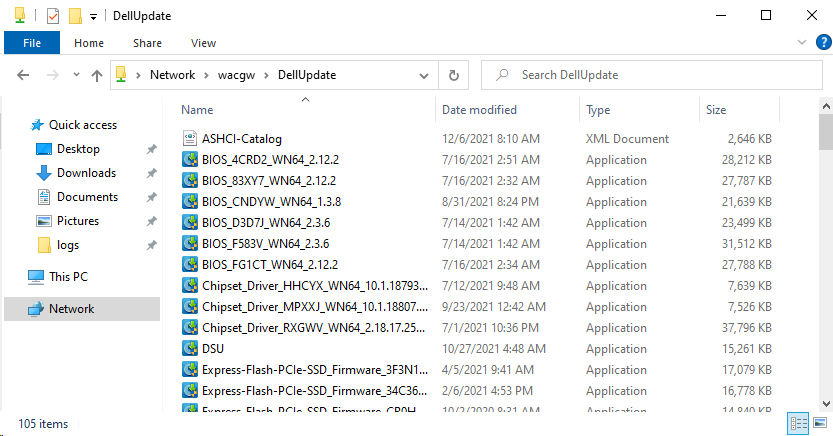
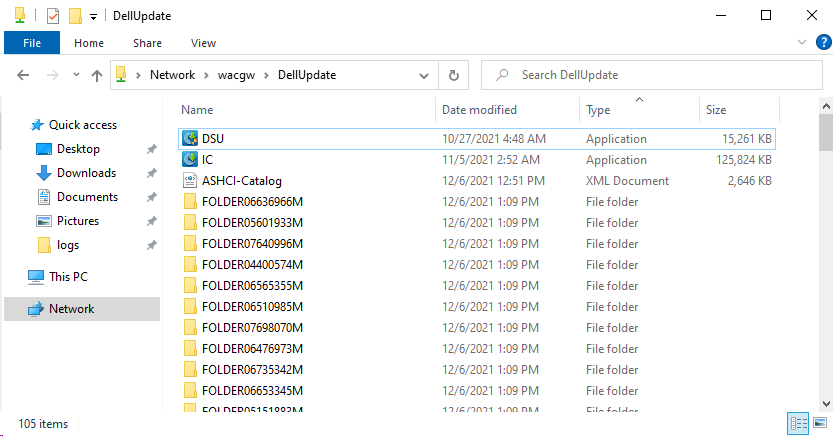
script fix + screenshots

diff --git a/lab-guides/03-OpenManageExtensionForWAC/readme.md b/lab-guides/03-OpenManageExtensionForWAC/readme.md
@@ -1,5 +1,27 @@
 # Exploring Dell OpenManage integration with Windows Admin Center (OMIMWAC)
 
+<!-- TOC -->
+
+- [Exploring Dell OpenManage integration with Windows Admin Center OMIMWAC](#exploring-dell-openmanage-integration-with-windows-admin-center-omimwac)
+    - [About the lab](#about-the-lab)
+    - [Prerequsites](#prerequsites)
+    - [Installing Extension](#installing-extension)
+    - [Exploring extension features](#exploring-extension-features)
+        - [Health](#health)
+        - [Inventory](#inventory)
+        - [iDRAC](#idrac)
+        - [Security](#security)
+        - [Configure](#configure)
+    - [Updating nodes with access to internet](#updating-nodes-with-access-to-internet)
+    - [Updating nodes with offline catalog](#updating-nodes-with-offline-catalog)
+        - [Configure file share with DSU binaries](#configure-file-share-with-dsu-binaries)
+        - [Upload drivers from catalog to fileshare](#upload-drivers-from-catalog-to-fileshare)
+        - [Perform update](#perform-update)
+    - [TBD: Deep dive](#tbd-deep-dive)
+        - [TBD: Collecting logs](#tbd-collecting-logs)
+
+<!-- /TOC -->
+
 ## About the lab
 
 In this lab you will learn about Dell OpenManage integration for Windows Admin Center, how you can install it, what features are available and how to troubleshoot issues (if any) will happen.
@@ -42,7 +64,6 @@ Notice, that OMIMWAC is using iDRAC USB. It also uses temporary iDRAC account to
 ![](./media/wac03.png)
 
 ![](./media/wac04.png)
-
 
 **6** You may also receive an error when running compliance report under update. To mitigate this one, you may need to increase MaxEvenlope size.
 
@@ -104,7 +125,6 @@ As you can see, number of cores and CCDs (Core Chiplet Dies) can be configured.
 In Settings tab you can see, that offline catalog can be used. But two components needs to be provided - Inventory Collector and Dell EMC System Update (DSU). Let's do that with PowerShell
 
 ### Configure file share with DSU binaries
-
 
 **1.** Paste below script to PowerShell to create a File Share with latest DSU and IC.
 
@@ -209,8 +229,10 @@ $items=$xml.manifest.softwarecomponent | Out-GridView -OutputMode Multiple -Titl
 
 #download
 foreach ($item in $items){
-    $filename=$($item.path.split("/")|Select-Object -Last 1)
-    Start-BitsTransfer -Source "https://downloads.dell.com/$($item.path)" -Destination "\\$FileServer\$FileShareName\$filename" -DisplayName "Downloading $filename releasedate $($item.releaseDate)"
+    $Path=$item.path.replace("/","\")
+    $Folder=$Path | Split-Path
+    New-Item -Path \\$FileServer\$FileShareName\ -Name $Folder -ItemType Directory -Force
+    Start-BitsTransfer -Source "https://downloads.dell.com/$($item.path)" -Destination "\\$FileServer\$FileShareName\$Path" -DisplayName "Downloading $Path releasedate $($item.releaseDate)"
 }
  
 ```
@@ -221,13 +243,33 @@ foreach ($item in $items){
 
 ![](./media/explorer02.png)
 
-### TBD: Perform update
+### Perform update
+
+Once all tools, catalog and drivers were populated, DRM Settings configured, cluster can be now offline updated.
+
+**1.** Navigate to Update Tab, and select Offline - Dell EMC Repository Manager Catalog and click on Next: Compliance Report
+
+![](./media/wac17.png)
+
+**2.** In compliance report, select updates you want to apply, and click Next: Summary
+
+![](./media/wac18.png)
+
+**3.** In Summary view, notice, that two options are available - Run now, or Schedule Update. Keep defaults and click Next: Cluster aware update
+
+![](./media/wac19.png)
+
+![](./media/wac20.png)
+
+**4.** If you navigate out and then back to cluster view, you can navigate to Updates tool, and you will see, that there is a CAU run in progress
+
+![](./media/wac21.png)
 
 ## TBD: Deep dive
 
 ### TBD: Collecting logs
 
-```
+```Notes
 WACGW
 C:\Windows\ServiceProfiles\NetworkService\AppData\Local\Temp\generated\logs
 WAC Nodes
